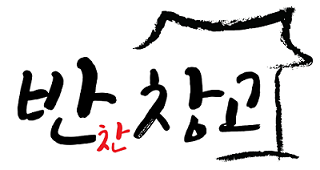
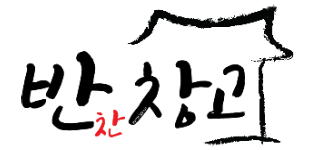
2017/11/20 16:44 로그인페이지 수정/헤더수정/로고변경

Changed region(s): [[0.1452, 0.0267, 0.9871, 0.9867], [0.029, 0.32, 0.3774, 0.7467]]

diff --git a/Banchan/src/main/java/org/kosta/banchan/security/MemberAuthenticationProvider.java b/Banchan/src/main/java/org/kosta/banchan/security/MemberAuthenticationProvider.java
@@ -48,18 +48,21 @@ public class MemberAuthenticationProvider implements AuthenticationProvider{
 			return null;
 		}
 		//2.사용자 정보 디비로 부터 조회
-		String id = authentication.getName();//사용자가 로그인시 입력한 ID 반환 		
+		String id = authentication.getName();//사용자가 로그인시 입력한 ID 반환 	
+		System.out.println("id ="+id);
 		MemberVO member = memberService.findMemberById(id);
 		if(member == null){
 			throw new UsernameNotFoundException("회원 아이디가 존재하지 않습니다");
 		}
 		String password=(String)authentication.getCredentials();//사용자가 입력한 패스워드 반환 
+		System.out.println("password ="+password);
 		//3.패스워드 비교
 		/*if(!password.equals(member.getPassword())){//패스워드가 틀리면
 			throw new BadCredentialsException("패스워드가 틀립니다.");
 		}*/
 		/* 비밀번호 암호화를 이용할 경우 
 		 이용자가 로그인 폼에서 입력한 비밀번호와 DB로부터 가져온 암호화된 비밀번호를 비교한다 */
+		System.out.println("member 정보="+member);
         if (!passwordEncoder.matches(password, member.getPw())) 
                 throw new BadCredentialsException("비밀번호 불일치~~~");
 		//4.사용자 권한 조회
@@ -69,6 +72,8 @@ public class MemberAuthenticationProvider implements AuthenticationProvider{
 		}
 		
 		List<SimpleGrantedAuthority> authorities = new ArrayList<SimpleGrantedAuthority>();
+		System.out.println("list = "+list);
+		System.out.println("authorities ="+authorities);
 		for(Authority au : list){
 			authorities.add(new SimpleGrantedAuthority(au.getAuthNo()));
 		}
